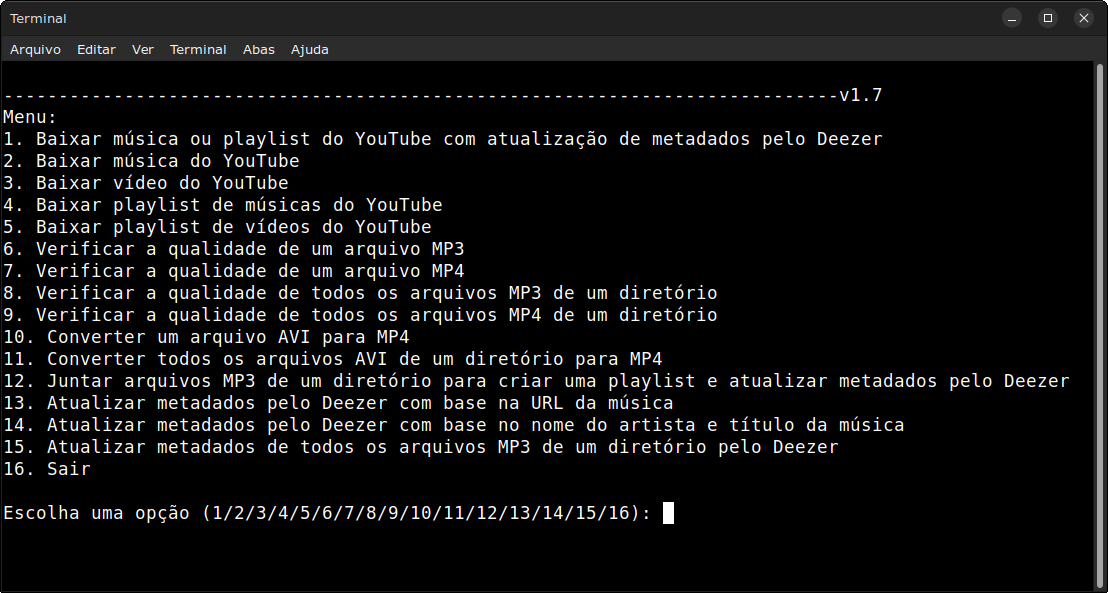
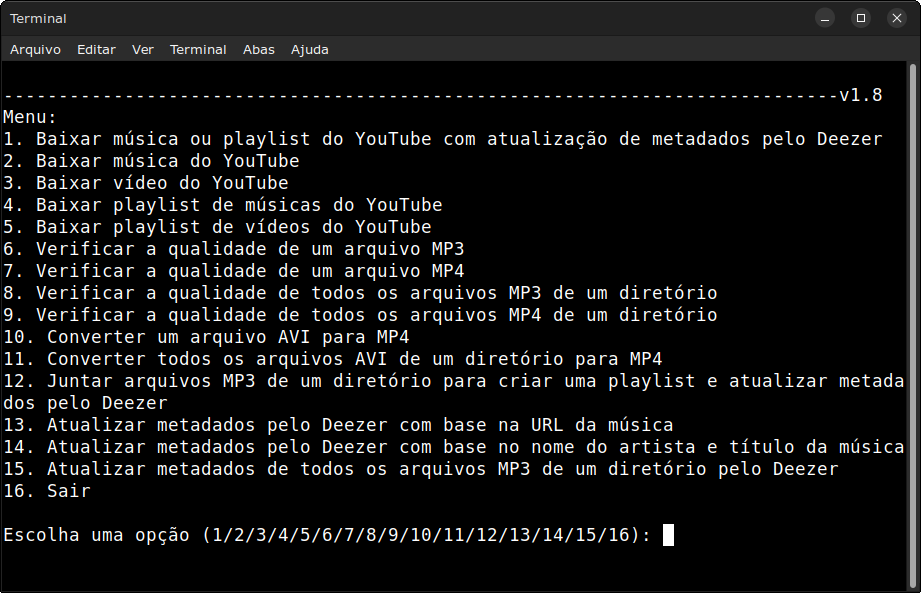
chore: atualizar número da versão para v1.8; docs: atualizar preview do README

diff --git a/index.py b/index.py
@@ -16,7 +16,7 @@ from update_tags_all_mp3 import update_tags_all_mp3_audio
 
 def main_menu():
     while True:
-        print("\n----------------------------------------------------------------------------v1.7")
+        print("\n----------------------------------------------------------------------------v1.8")
         print("Menu:")
         print("1. Baixar música ou playlist do YouTube com atualização de metadados pelo Deezer")
         print("2. Baixar música do YouTube")
